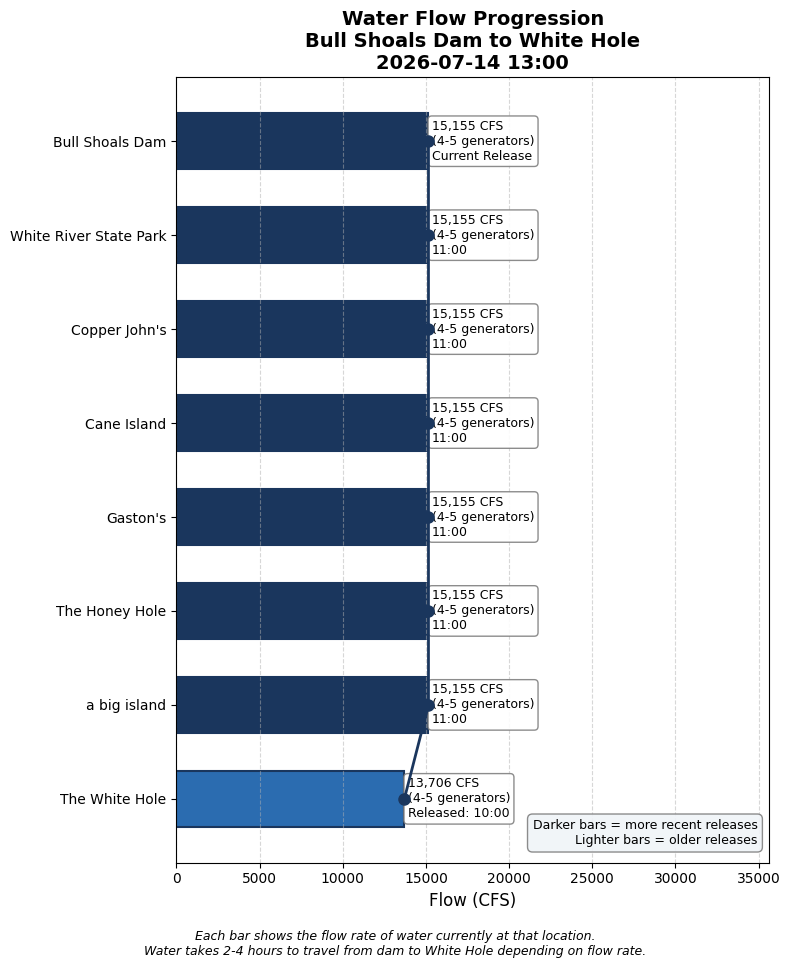
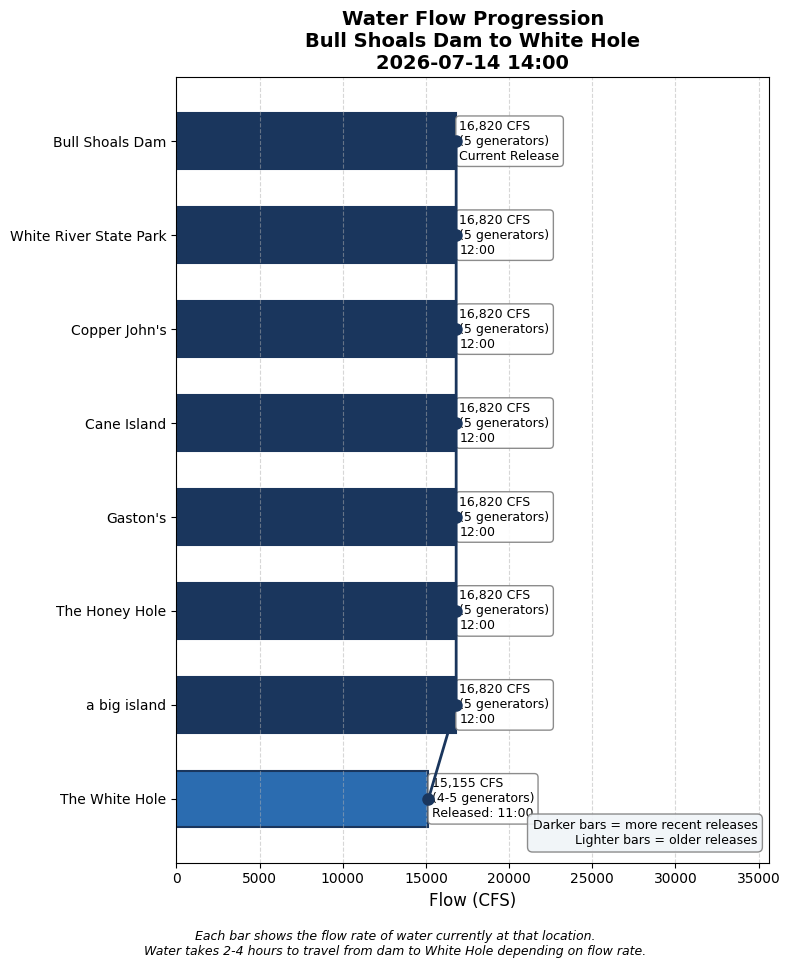
Update water conditions 2026-07-14 14:00

Changed region(s): [[0.4861, 0.093, 0.7291, 0.8678]]

diff --git a/white_hole_conditions.html b/white_hole_conditions.html
@@ -3,7 +3,7 @@
 <head>
     <meta charset="UTF-8">
     <meta name="viewport" content="width=device-width, initial-scale=1.0">
-    <title>White Hole Conditions - 2026-07-14 13:00</title>
+    <title>White Hole Conditions - 2026-07-14 14:00</title>
     <style>
         body {
             font-family: -apple-system, BlinkMacSystemFont, 'Segoe UI', Roboto, sans-serif;
@@ -148,7 +148,7 @@
 </head>
 <body>
     <h1>White Hole Current Conditions</h1>
-    <p class="subtitle">Tuesday, July 14, 2026 at 01:00 PM</p>
+    <p class="subtitle">Tuesday, July 14, 2026 at 02:00 PM</p>
 
     <!-- HEADLINE BANNER -->
     <div class="headline-banner">
@@ -160,7 +160,7 @@
     <!-- CURRENT CONDITIONS -->
     <div class="current-conditions">
         <h3>Current Conditions at White Hole</h3>
-        <div class="flow-display">13,706 CFS</div>
+        <div class="flow-display">15,155 CFS</div>
         <div class="generator-display">Equivalent to 4-5 generators</div>
         <div class="condition-pills">
             <span class="pill wading">No Wading</span>
@@ -189,6 +189,14 @@
                 <tr><td colspan="3" style="padding: 8px 10px; font-size: 0.8em; font-weight: bold; color: #6b46c1; text-transform: uppercase; letter-spacing: 0.05em; background-color: #f3e8ff;">Scheduled (SWPA forecast)</td></tr>
                 
                     <tr style="background-color: #faf5ff; ">
+                        <td style="padding: 10px; font-weight: bold;">5 PM</td>
+                        <td style="padding: 10px;">21,181 CFS<br><small style="color: #666;">(6-7 generators: 20931 generation + 250 min flow)</small></td>
+                        <td style="padding: 10px;">~6:58 PM
+                            <span style="display: inline-block; margin-left: 6px; padding: 2px 8px; border-radius: 12px; font-size: 0.8em; background-color: #fee2e2; color: #991b1b;">No Wading</span>
+                        </td>
+                    </tr>
+                
+                    <tr style="background-color: #faf5ff; ">
                         <td style="padding: 10px; font-weight: bold;">4 PM</td>
                         <td style="padding: 10px;">20,506 CFS<br><small style="color: #666;">(6-7 generators: 20256 generation + 250 min flow)</small></td>
                         <td style="padding: 10px;">~6:01 PM
@@ -212,33 +220,25 @@
                         </td>
                     </tr>
                 
-                    <tr style="background-color: #faf5ff; ">
-                        <td style="padding: 10px; font-weight: bold;">1 PM</td>
-                        <td style="padding: 10px;">13,754 CFS<br><small style="color: #666;">(4-5 generators: 13504 generation + 250 min flow)</small></td>
-                        <td style="padding: 10px;">~3:23 PM
-                            <span style="display: inline-block; margin-left: 6px; padding: 2px 8px; border-radius: 12px; font-size: 0.8em; background-color: #fee2e2; color: #991b1b;">No Wading</span>
-                        </td>
-                    </tr>
-                
             
                     
                 <tr><td colspan="3" style="padding: 8px 10px; font-size: 0.8em; font-weight: bold; color: #2b6cb0; text-transform: uppercase; letter-spacing: 0.05em; background-color: #ebf8ff;">Actual (dam readings)</td></tr>
                 
                     <tr style="background-color: #ebf8ff;">
-                        <td style="padding: 10px; font-weight: bold;">11:00 AM</td>
-                        <td style="padding: 10px;">15,155 CFS<br><small style="color: #666;">(4-5 generators)</small></td>
-                        <td style="padding: 10px;"><span style="color: #2b6cb0;">→ Arrives ~1:18 PM (in 18 min)</span></td>
+                        <td style="padding: 10px; font-weight: bold;">12:00 PM</td>
+                        <td style="padding: 10px;">16,820 CFS<br><small style="color: #666;">(5 generators)</small></td>
+                        <td style="padding: 10px;"><span style="color: #2b6cb0;">→ Arrives ~2:13 PM (in 13 min)</span></td>
                     </tr>
                 
                     <tr style="background-color: #e6fffa;">
-                        <td style="padding: 10px; font-weight: bold;">10:00 AM</td>
-                        <td style="padding: 10px;">13,706 CFS<br><small style="color: #666;">(4-5 generators)</small></td>
+                        <td style="padding: 10px; font-weight: bold;">11:00 AM</td>
+                        <td style="padding: 10px;">15,155 CFS<br><small style="color: #666;">(4-5 generators)</small></td>
                         <td style="padding: 10px;"><span style="color: #319795; font-weight: bold;">← AT WHITE HOLE NOW</span></td>
                     </tr>
                 
                     <tr style="">
-                        <td style="padding: 10px; font-weight: bold;">6:00 AM</td>
-                        <td style="padding: 10px;">8,198 CFS<br><small style="color: #666;">(2-3 generators)</small></td>
+                        <td style="padding: 10px; font-weight: bold;">7:00 AM</td>
+                        <td style="padding: 10px;">8,131 CFS<br><small style="color: #666;">(2-3 generators)</small></td>
                         <td style="padding: 10px;"><span style="color: #718096;">passed</span></td>
                     </tr>
                 
@@ -268,9 +268,9 @@
         </summary>
         <div style="padding: 15px;">
             <ul>
-                <li>Latest dam reading: 15,155 CFS at 2026-07-14 11:00</li>
-                <li>Travel time to White Hole: 2.4 hours at current flow</li>
-                <li>White Hole conditions based on dam reading from: 2026-07-14 10:00</li>
+                <li>Latest dam reading: 16,820 CFS at 2026-07-14 12:00</li>
+                <li>Travel time to White Hole: 2.3 hours at current flow</li>
+                <li>White Hole conditions based on dam reading from: 2026-07-14 11:00</li>
             </ul>
         </div>
     </details>
@@ -292,6 +292,13 @@
                     </thead>
                     <tbody>
                         
+                <tr style="border-bottom: 1px solid #eee;">
+                    <td style="padding: 8px;">2026-07-14 12:00</td>
+                    <td style="padding: 8px; text-align: right;">16820</td>
+                    <td style="padding: 8px; text-align: right;">5.1</td>
+                    <td style="padding: 8px; text-align: right;">2.2</td>
+                </tr>
+                
                 <tr style="border-bottom: 1px solid #eee;">
                     <td style="padding: 8px;">2026-07-14 11:00</td>
                     <td style="padding: 8px; text-align: right;">15155</td>
@@ -355,13 +362,6 @@
                     <td style="padding: 8px; text-align: right;">2.8</td>
                 </tr>
                 
-                <tr style="border-bottom: 1px solid #eee;">
-                    <td style="padding: 8px;">2026-07-14 02:00</td>
-                    <td style="padding: 8px; text-align: right;">8684</td>
-                    <td style="padding: 8px; text-align: right;">2.6</td>
-                    <td style="padding: 8px; text-align: right;">2.8</td>
-                </tr>
-                
                     </tbody>
                 </table>
             </div>
@@ -369,7 +369,7 @@
         
 
     <div class="timestamp">
-        Data retrieved and processed on 2026-07-14 13:00:08
+        Data retrieved and processed on 2026-07-14 14:00:09
     </div>
 </body>
 </html>
